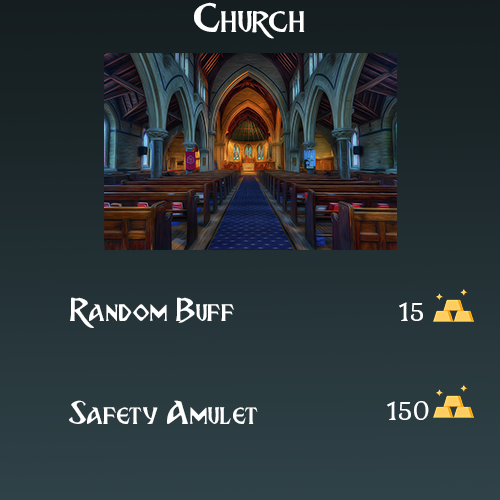
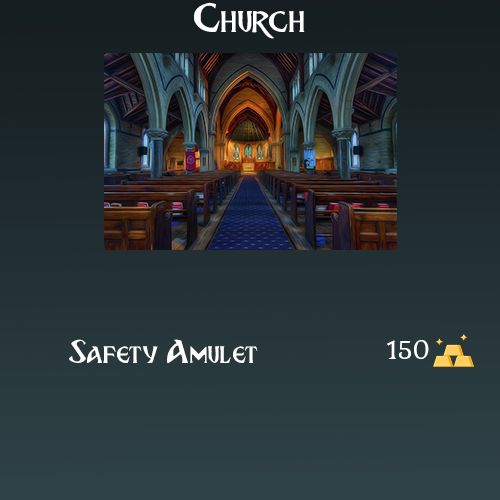
buff button deleted

diff --git a/main.html b/main.html
@@ -109,7 +109,7 @@
         <div class="modal-content" id="curch-modal-content">
           <div class="close-button" id="curch-close-btn">+</div>
           <div>
-            <button class="tavern-button" id="buff-button">BUY</button>
+            
             <button class="tavern-button" id="amulet-button">BUY</button>
           </div>
         </div>

diff --git a/styles.css b/styles.css
@@ -136,7 +136,7 @@
       }
       #amulet-button {
         position: absolute;
-        top: 400;
+        top: 340;
         left: 285;
       }
 
